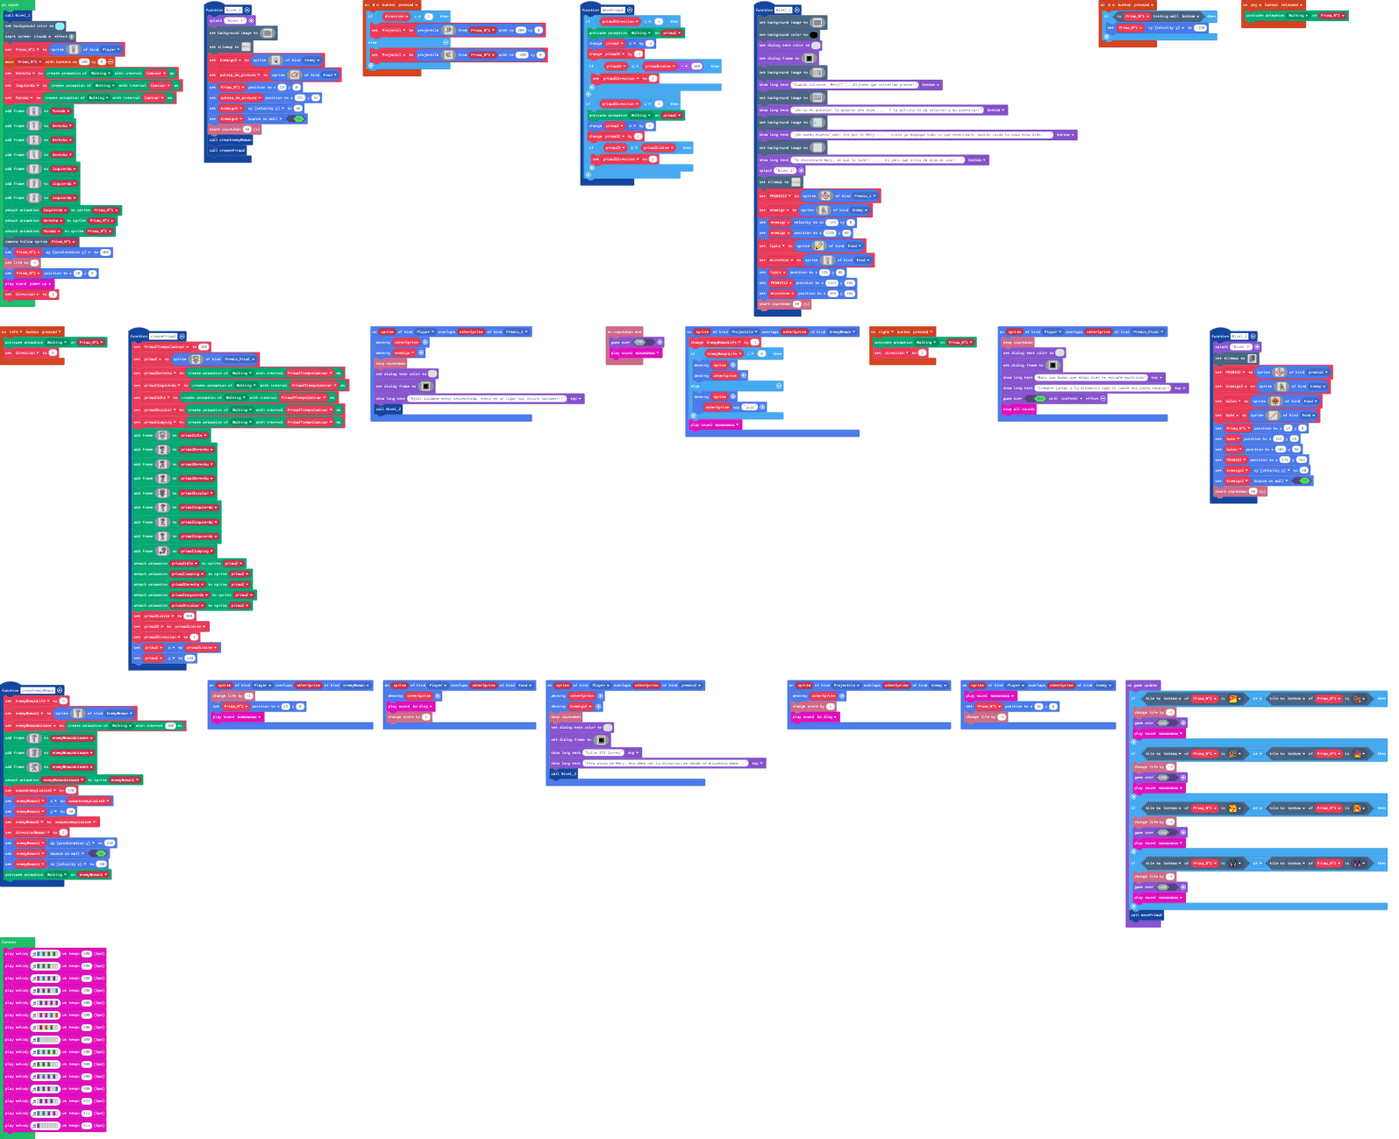
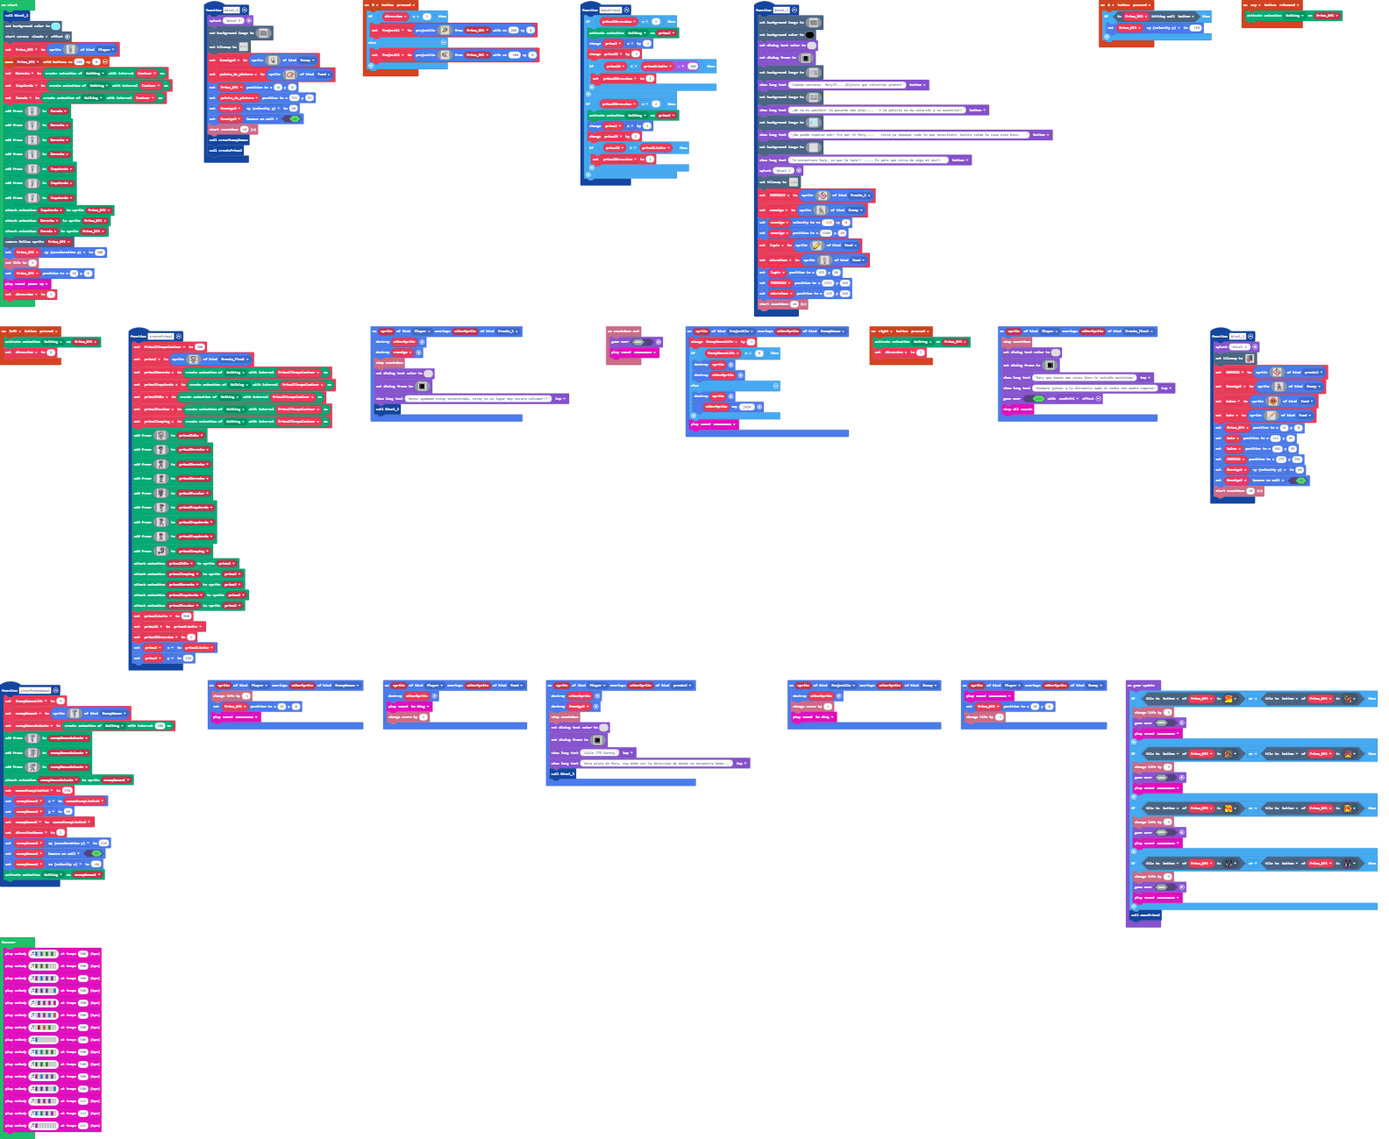
Diseño 7

diff --git a/main.ts b/main.ts
@@ -686,32 +686,32 @@ function Nivel_1 () {
         9 9 9 9 9 9 9 9 9 9 9 9 9 9 9 9 9 9 9 9 9 9 9 9 9 9 9 9 9 9 9 9 9 9 9 9 9 9 9 9 9 9 9 9 9 9 9 9 9 9 9 9 9 9 9 9 9 9 9 9 9 9 9 9 9 9 9 9 9 9 9 9 9 9 9 9 9 9 9 9 9 9 9 9 9 9 9 9 9 9 9 9 9 9 9 9 9 9 9 9 9 9 9 9 9 9 9 9 9 9 9 9 9 9 9 9 9 9 9 9 9 9 9 9 9 9 9 9 9 9 9 9 9 9 9 9 9 9 9 9 9 9 9 9 9 9 9 9 9 9 9 9 9 9 9 9 9 9 9 9 
         9 9 9 9 9 9 9 9 9 9 9 9 9 9 9 9 9 9 9 9 9 9 9 9 9 9 9 9 9 9 9 9 9 9 9 9 9 9 9 9 9 9 9 9 9 9 9 9 9 9 9 9 9 9 9 9 9 9 9 9 9 9 9 9 9 9 9 9 9 9 9 9 9 9 9 9 9 9 9 9 9 9 9 9 9 9 9 9 9 9 9 9 9 9 9 9 9 9 9 9 9 9 9 9 9 9 9 9 9 9 9 9 9 9 9 9 9 9 9 9 9 9 9 9 9 9 9 9 9 9 9 9 9 9 9 9 9 9 9 9 9 9 9 9 9 9 9 9 9 9 9 9 9 9 9 9 9 9 9 9 
         9 9 9 9 9 9 9 9 9 9 9 9 9 9 9 9 9 9 9 9 9 9 9 9 9 9 9 9 9 9 9 9 9 9 9 9 9 9 9 9 9 9 9 9 9 9 9 9 9 9 9 9 9 9 9 9 9 9 9 9 9 9 9 9 9 9 9 9 9 9 9 9 9 9 9 9 9 9 9 9 9 9 9 9 9 9 9 9 9 9 9 9 9 9 9 9 9 9 9 9 9 9 9 9 9 9 9 9 9 9 9 9 9 9 9 9 9 9 9 9 9 9 9 9 9 9 9 9 9 9 9 9 9 9 9 9 9 9 9 9 9 9 9 9 9 9 9 9 9 9 9 9 9 9 9 9 9 9 9 9 
-        9 9 9 9 9 9 9 9 9 9 9 9 9 9 9 9 9 9 9 9 9 9 9 9 9 9 9 9 9 9 9 9 9 9 9 9 9 9 9 9 9 9 9 9 9 9 9 9 9 9 9 9 9 9 9 9 9 9 9 9 9 9 9 9 9 9 9 9 9 9 9 9 9 9 9 9 9 9 9 9 9 9 9 9 9 9 9 9 9 9 9 9 9 9 9 9 9 9 9 9 9 9 9 9 9 9 9 9 9 9 9 9 9 9 9 9 9 9 9 9 9 9 9 9 9 9 9 9 9 9 9 9 9 9 9 9 9 9 9 9 9 9 9 9 9 9 9 9 9 9 9 9 9 9 9 9 9 9 9 9 
-        9 9 9 9 9 9 9 9 9 9 9 9 9 9 9 9 9 9 9 9 9 9 9 9 9 9 9 9 9 9 9 9 9 9 9 9 9 9 9 9 9 9 9 9 9 9 9 9 9 9 9 9 9 9 9 9 9 9 9 9 9 9 9 9 9 9 9 9 9 9 9 9 9 9 9 9 9 9 9 9 9 9 9 9 9 9 9 9 9 9 9 9 9 9 9 9 9 9 9 9 9 9 9 9 9 9 9 9 9 9 9 9 9 9 9 9 9 9 9 9 9 9 9 9 9 9 9 9 9 9 9 9 9 9 9 9 9 9 9 9 9 9 9 9 9 9 9 9 9 9 9 9 9 9 9 9 9 9 9 9 
-        9 9 9 9 9 9 9 9 9 9 9 9 9 9 9 9 9 9 9 9 9 9 9 9 9 9 9 9 9 9 9 9 9 9 9 9 9 9 9 9 9 9 9 9 9 9 9 9 9 9 9 9 9 9 9 9 9 9 9 9 9 9 9 9 9 9 9 9 9 9 9 9 9 9 9 9 9 9 9 9 9 9 9 9 9 9 9 9 9 9 9 9 9 9 9 9 9 9 9 9 9 9 9 9 9 9 9 9 9 9 9 9 9 9 9 9 9 9 9 9 9 9 9 9 9 9 9 9 9 9 9 9 9 9 9 9 9 9 9 9 9 9 9 9 9 9 9 9 9 9 9 9 9 9 9 9 9 9 9 9 
-        9 9 9 9 9 9 9 9 9 9 9 9 9 9 9 9 9 9 9 9 9 9 9 9 9 9 9 9 9 9 9 9 9 9 9 9 9 9 9 9 9 9 9 9 9 9 9 9 9 9 9 9 9 9 9 9 9 9 9 9 9 9 9 9 9 9 9 9 9 9 9 9 9 9 9 9 9 9 9 9 9 9 9 9 9 9 9 9 9 9 9 9 9 9 9 9 9 9 9 9 9 9 9 9 9 9 9 9 9 9 9 9 9 9 9 9 9 9 9 9 9 9 9 9 9 9 9 9 9 9 9 9 9 9 9 9 9 9 9 9 9 9 9 9 9 9 9 9 9 9 9 9 9 9 9 9 9 9 9 9 
-        9 9 9 9 9 9 9 9 9 9 9 9 9 9 9 9 9 9 9 9 9 9 9 9 9 9 9 9 9 9 9 9 9 9 9 9 9 9 9 9 9 9 9 9 9 9 9 9 9 9 9 9 9 9 9 9 9 9 9 9 9 9 9 9 9 9 9 9 9 9 9 9 9 9 9 9 9 9 9 9 9 9 9 9 9 9 9 9 9 9 9 9 9 9 9 9 9 9 9 9 9 9 9 9 9 9 9 9 9 9 9 9 9 9 9 9 9 9 9 9 9 9 9 9 9 9 9 9 9 9 9 9 9 9 9 9 9 9 9 9 9 9 9 9 9 9 9 9 9 9 9 9 9 9 9 9 9 9 9 9 
-        9 9 9 9 9 9 9 9 9 9 9 9 9 9 9 9 9 9 9 9 9 9 9 9 9 9 9 9 9 9 9 9 9 9 9 9 9 9 9 9 9 9 9 9 9 9 9 9 9 9 9 9 9 9 9 9 9 9 9 9 9 9 9 9 9 9 9 9 9 9 9 9 9 9 9 9 9 9 9 9 9 9 9 9 9 9 9 9 9 9 9 9 9 9 9 9 9 9 9 9 9 9 9 9 9 9 9 9 9 9 9 9 9 9 9 9 9 9 9 9 9 9 9 9 9 9 9 9 9 9 9 9 9 9 9 9 9 9 9 9 9 9 9 9 9 9 9 9 9 9 9 9 9 9 9 9 9 9 9 9 
-        9 9 9 9 9 9 9 9 9 9 9 9 9 9 9 9 9 9 9 9 9 9 9 9 9 9 9 9 9 9 9 9 9 9 9 9 9 9 9 9 9 9 9 9 9 9 9 9 9 9 9 9 9 9 9 9 9 9 9 9 9 9 9 9 9 9 9 9 9 9 9 9 9 9 9 9 9 9 9 9 9 9 9 9 9 9 9 9 9 9 9 9 9 9 9 9 9 9 9 9 9 9 9 9 9 9 9 9 9 9 9 9 9 9 9 9 9 9 9 9 9 9 9 9 9 9 9 9 9 9 9 9 9 9 9 9 9 9 9 9 9 9 9 9 9 9 9 9 9 9 9 9 9 9 9 9 9 9 9 9 
-        9 9 9 9 9 9 9 9 9 9 9 9 9 9 9 9 9 9 9 9 9 9 9 9 9 9 9 9 9 9 9 9 9 9 9 9 9 9 9 9 9 9 9 9 9 9 9 9 9 9 9 9 9 9 9 9 9 9 9 9 9 9 9 9 9 9 9 9 9 9 9 9 9 9 9 9 9 9 9 9 9 9 9 9 9 9 9 9 9 9 9 9 9 9 9 9 9 9 9 9 9 9 9 9 9 9 9 9 9 9 9 9 9 9 9 9 9 9 9 9 9 9 9 9 9 9 9 9 9 9 9 9 9 9 9 9 9 9 9 9 9 9 9 9 9 9 9 9 9 9 9 9 9 9 9 9 9 9 9 9 
-        9 9 9 9 9 9 9 9 9 9 9 9 9 9 9 9 9 9 9 9 9 9 9 9 9 9 9 9 9 9 9 9 9 9 9 9 9 9 9 9 9 9 9 9 9 9 9 9 9 9 9 9 9 9 9 9 9 9 9 9 9 9 9 9 9 9 9 9 9 9 9 9 9 9 9 9 9 9 9 9 9 9 9 9 9 9 9 9 9 9 9 9 9 9 9 9 9 9 9 9 9 9 9 9 9 9 9 9 9 9 9 9 9 9 9 9 9 9 9 9 9 9 9 9 9 9 9 9 9 9 9 9 9 9 9 9 9 9 9 9 9 9 9 9 9 9 9 9 9 9 9 9 9 9 9 9 9 9 9 9 
-        9 9 9 9 9 9 9 9 9 9 9 9 9 9 9 9 9 9 9 9 9 9 9 9 9 9 9 9 9 9 9 9 9 9 9 9 9 9 9 9 9 9 9 9 9 9 9 9 9 9 9 9 9 9 9 9 9 9 9 9 9 9 9 9 9 9 9 9 9 9 9 9 9 9 9 9 9 9 9 9 9 9 9 9 9 9 9 9 9 9 9 9 9 9 9 9 9 9 9 9 9 9 9 9 9 9 9 9 9 9 9 9 9 9 9 9 9 9 9 9 9 9 9 9 9 9 9 9 9 9 9 9 9 9 9 9 9 9 9 9 9 9 9 9 9 9 9 9 9 9 9 9 9 9 9 9 9 9 9 9 
-        9 9 9 9 9 9 9 9 9 9 9 9 9 9 9 9 9 9 9 9 9 9 9 9 9 9 9 9 9 9 9 9 9 9 9 9 9 9 9 9 9 9 9 9 9 9 9 9 9 9 9 9 9 9 9 9 9 9 9 9 9 9 9 9 9 9 9 9 9 9 9 9 9 9 9 9 9 9 9 9 9 9 9 9 9 9 9 9 9 9 9 9 9 9 9 9 9 9 9 9 9 9 9 9 9 9 9 9 9 9 9 9 9 9 9 9 9 9 9 9 9 9 9 9 9 9 9 9 9 9 9 9 9 9 9 9 9 9 9 9 9 9 9 9 9 9 9 9 9 9 9 9 9 9 9 9 9 9 9 9 
-        9 9 9 9 9 9 9 9 9 9 9 9 9 9 9 9 9 9 9 9 9 9 9 9 9 9 9 9 9 9 9 9 9 9 9 9 9 9 9 9 9 9 9 9 9 9 9 9 9 9 9 9 9 9 9 9 9 9 9 9 9 9 9 9 9 9 9 9 9 9 9 9 9 9 9 9 9 9 9 9 9 9 9 9 9 9 9 9 9 9 9 9 9 9 9 9 9 9 9 9 9 9 9 9 9 9 9 9 9 9 9 9 9 9 9 9 9 9 9 9 9 9 9 9 9 9 9 9 9 9 9 9 9 9 9 9 9 9 9 9 9 9 9 9 9 9 9 9 9 9 9 9 9 9 9 9 9 9 9 9 
-        9 9 9 9 9 9 9 9 9 9 9 9 9 9 9 9 9 9 9 9 9 9 9 9 9 9 9 9 9 9 9 9 9 9 9 9 9 9 9 9 9 9 9 9 9 9 9 9 9 9 9 9 9 9 9 9 9 9 9 9 9 9 9 9 9 9 9 9 9 9 9 9 9 9 9 9 9 9 9 9 9 9 9 9 9 9 9 9 9 9 9 9 9 9 9 9 9 9 9 9 9 9 9 9 9 9 9 9 9 9 9 9 9 9 9 9 9 9 9 9 9 9 9 9 9 9 9 9 9 9 9 9 9 9 9 9 9 9 9 9 9 9 9 9 9 9 9 9 9 9 9 9 9 9 9 9 9 9 9 9 
-        9 9 9 9 9 9 9 9 9 9 9 9 9 9 9 9 9 9 9 9 9 9 9 9 9 9 9 9 9 9 9 9 9 9 9 9 9 9 9 9 9 9 9 9 9 9 9 9 9 9 9 9 9 9 9 9 9 9 9 9 9 9 9 9 9 9 9 9 9 9 9 9 9 9 9 9 9 9 9 9 9 9 9 9 9 9 9 9 9 9 9 9 9 9 9 9 9 9 9 9 9 9 9 9 9 9 9 9 9 9 9 9 9 9 9 9 9 9 9 9 9 9 9 9 9 9 9 9 9 9 9 9 9 9 9 9 9 9 9 9 9 9 9 9 9 9 9 9 9 9 9 9 9 9 9 9 9 9 9 9 
-        9 9 9 9 9 9 9 9 9 9 9 9 9 9 9 9 9 f 9 9 9 9 9 9 9 9 9 9 9 9 9 9 9 9 9 9 9 9 9 9 9 9 9 9 9 9 9 9 9 9 9 9 9 9 9 9 9 9 9 9 9 9 9 9 9 9 9 9 9 9 9 9 9 9 9 9 9 9 9 9 9 9 9 9 9 9 9 9 9 9 9 9 9 9 9 9 9 9 9 9 9 9 9 9 9 9 9 9 9 9 9 9 9 9 9 9 9 9 9 9 9 9 9 9 9 9 9 9 9 9 9 9 9 9 9 9 9 9 9 9 9 9 9 9 9 9 9 9 9 9 9 9 9 9 9 9 9 9 9 9 
-        9 9 9 9 9 9 9 9 9 9 9 9 9 9 9 9 9 f 9 9 9 9 9 9 9 9 9 9 9 9 9 9 9 9 9 9 9 9 9 9 9 9 9 9 9 9 9 9 9 9 9 9 9 9 9 9 9 9 9 9 9 9 9 9 9 9 9 9 9 9 9 9 9 9 9 9 9 9 9 9 9 9 9 9 9 9 9 9 9 9 9 9 9 9 9 9 9 9 9 9 9 9 9 9 9 9 9 9 9 9 9 9 9 9 9 9 9 9 9 9 9 9 9 9 9 9 9 9 9 9 9 9 9 9 9 9 9 9 9 9 9 9 9 9 9 9 9 9 9 9 9 9 9 9 9 9 9 9 9 9 
-        9 9 9 9 9 9 9 9 9 9 9 9 9 9 9 9 9 f 9 9 9 9 9 9 9 9 9 9 9 9 9 9 9 9 9 9 9 9 9 9 9 9 9 9 9 9 9 9 9 9 9 9 9 9 9 9 9 9 9 9 9 9 9 9 9 9 9 9 9 9 9 9 9 9 9 9 9 9 9 9 9 9 9 9 9 9 9 9 9 9 9 9 9 9 9 9 9 9 9 9 9 9 9 9 9 9 9 9 9 9 9 9 9 9 9 9 9 9 9 9 9 9 9 9 9 9 9 9 9 9 9 9 9 9 9 9 9 9 9 9 9 9 9 9 9 9 9 9 9 9 9 9 9 9 9 9 9 9 9 9 
-        9 9 9 9 9 9 9 9 9 9 9 9 9 9 9 9 9 f 9 9 9 9 9 9 9 9 9 9 9 9 9 9 9 9 9 9 9 9 9 9 9 9 9 9 9 9 9 9 9 9 9 9 9 9 9 9 9 9 9 9 9 9 9 9 9 9 9 9 9 9 9 9 9 9 9 9 9 9 9 9 9 9 9 9 9 9 9 9 9 9 9 9 9 9 9 9 9 9 9 9 9 9 9 9 9 9 9 9 9 9 9 9 9 9 9 9 9 9 9 9 9 9 9 9 9 9 9 9 9 9 9 9 9 9 9 9 9 9 9 9 9 9 9 9 9 9 9 9 9 9 9 9 9 9 9 9 9 9 9 9 
-        9 9 9 9 9 9 9 9 9 9 9 9 9 9 9 9 9 f 9 9 9 9 9 9 9 9 9 9 9 9 9 9 9 9 9 9 9 9 9 9 9 9 9 9 9 9 9 9 9 9 9 9 9 9 9 9 9 9 9 9 9 9 9 9 9 9 9 9 9 9 9 9 9 9 9 9 9 9 9 9 9 9 9 9 9 9 9 9 9 9 9 9 9 9 9 9 9 9 9 9 9 9 9 9 9 9 9 9 9 9 9 9 9 9 9 9 9 9 9 9 9 9 9 9 9 9 9 9 9 9 9 9 9 9 9 9 9 9 9 9 9 9 9 9 9 9 9 9 9 9 9 9 9 9 9 9 9 9 9 9 
-        9 9 9 9 9 9 9 9 9 9 9 9 9 9 9 9 9 f 9 9 9 9 9 9 9 9 9 9 9 9 9 9 9 9 9 9 9 9 9 9 9 9 9 9 9 9 9 9 9 9 9 9 9 9 9 9 9 9 9 9 9 9 9 9 9 9 9 9 9 9 9 9 9 9 9 9 9 9 9 9 9 9 9 9 9 9 9 9 9 9 9 9 9 9 9 9 9 9 9 9 9 9 9 9 9 9 9 9 9 9 9 9 9 9 9 9 9 9 9 9 9 9 9 9 9 9 9 9 9 9 9 9 9 9 9 9 9 9 9 9 9 9 9 9 9 9 9 9 9 9 9 9 9 9 9 9 9 9 9 9 
-        9 9 9 9 9 9 9 9 9 9 9 9 9 9 9 9 9 f f 9 9 9 9 9 9 9 9 9 9 9 9 9 9 9 9 9 9 9 9 9 9 9 9 9 9 9 9 9 9 9 9 9 9 9 9 9 9 9 9 9 9 9 9 9 9 9 9 9 9 9 9 9 9 9 9 9 9 9 9 9 9 9 9 9 9 9 9 9 9 9 9 9 9 9 9 9 9 9 9 9 9 9 9 9 9 9 9 9 9 9 9 9 9 9 9 9 9 9 9 9 9 9 9 9 9 9 9 9 9 9 9 9 9 9 9 9 9 9 9 9 9 9 9 9 9 9 9 9 9 9 9 9 9 9 9 9 9 9 9 9 
-        9 9 9 9 9 9 9 9 9 9 9 9 9 9 9 9 9 f 9 f 9 9 9 9 9 9 9 9 9 9 9 9 9 9 9 9 9 9 9 9 9 9 9 9 9 9 9 9 9 9 9 9 9 9 9 9 9 9 9 9 9 9 9 9 9 9 9 9 9 9 9 9 9 9 9 9 9 9 9 9 9 9 9 9 9 9 9 9 9 9 9 9 9 9 9 9 9 9 9 9 9 9 9 9 9 9 9 9 9 9 9 9 9 9 9 9 9 9 9 9 9 9 9 9 9 9 9 9 9 9 9 9 9 9 9 9 9 9 9 9 9 9 9 9 9 9 9 9 9 9 9 9 9 9 9 9 9 9 9 9 
-        9 9 9 9 9 9 9 9 9 9 9 9 9 9 9 9 9 f 9 f 9 9 9 9 9 9 9 9 9 9 9 9 9 9 9 9 9 9 9 9 9 9 9 9 9 9 9 9 9 9 9 9 9 9 9 9 9 9 9 9 9 9 9 9 9 9 9 9 9 9 9 9 9 9 9 9 9 9 9 9 9 9 9 9 9 9 9 9 9 9 9 9 9 9 9 9 9 9 9 9 9 9 9 9 9 9 9 9 9 9 9 9 9 9 9 9 9 9 9 9 9 9 9 9 9 9 9 9 9 9 9 9 9 9 9 9 9 9 9 9 9 9 9 9 9 9 9 9 9 9 9 9 9 9 9 9 9 9 9 9 
-        9 9 9 9 9 9 9 9 9 9 9 9 9 9 9 9 9 f 9 9 f 9 9 9 9 9 9 9 9 9 9 9 9 9 9 9 9 9 9 9 9 9 9 9 9 9 9 9 9 9 9 9 9 9 9 9 9 9 9 9 9 9 9 9 9 9 9 9 9 9 9 9 9 9 9 9 9 9 9 9 9 9 9 9 9 9 9 9 9 9 9 9 9 9 9 9 9 9 9 9 9 9 9 9 9 9 9 9 9 9 9 9 9 9 9 9 9 9 9 9 9 9 9 9 9 9 9 9 9 9 9 9 9 9 9 9 9 9 9 9 9 9 9 9 9 9 9 9 9 9 9 9 9 9 9 9 9 9 9 9 
-        9 9 9 9 9 9 9 9 9 9 9 9 9 9 9 9 9 f 9 9 9 f 9 9 9 9 9 9 9 9 9 9 9 9 9 9 9 9 9 9 9 9 9 9 9 9 9 9 9 9 9 9 9 9 9 9 9 9 9 9 9 9 9 9 9 9 9 9 9 9 9 9 9 9 9 9 9 9 9 9 9 9 9 9 9 9 9 9 9 9 9 9 9 9 9 9 9 9 9 9 9 9 9 9 9 9 9 9 9 9 9 9 9 9 9 9 9 9 9 9 9 9 9 9 9 9 9 9 9 9 9 9 9 9 9 9 9 9 9 9 9 9 9 9 9 9 9 9 9 9 9 9 9 9 9 9 9 9 9 9 
-        9 9 9 9 9 9 9 9 9 9 9 9 9 9 9 9 9 f 9 9 9 9 f 9 9 9 9 9 9 9 9 9 9 9 9 9 9 9 9 9 9 9 9 9 9 9 9 9 9 9 9 9 9 9 9 9 9 9 9 9 9 9 9 9 9 9 9 9 9 9 9 9 9 9 9 9 9 9 9 9 9 9 9 9 9 9 9 9 9 9 9 9 9 9 9 9 9 9 9 9 9 9 9 9 9 9 9 9 9 9 9 9 9 9 9 9 9 9 9 9 9 9 9 9 9 9 9 9 9 9 9 9 9 9 9 9 9 9 9 9 9 9 9 9 9 9 9 9 9 9 9 9 9 9 9 9 9 9 9 9 
+        9 9 9 9 9 9 9 9 9 9 9 9 9 9 9 9 9 9 9 9 9 f f f f f f f 9 9 9 9 9 9 9 9 9 9 9 9 9 9 9 9 9 9 9 9 9 9 9 9 9 9 9 9 9 9 9 9 9 9 9 9 9 9 9 9 9 9 9 9 9 9 9 9 9 9 9 9 9 9 9 9 9 9 9 9 9 9 9 9 9 9 9 9 9 9 9 9 9 9 9 9 9 9 9 9 9 9 9 9 9 9 9 9 9 9 9 9 9 9 9 9 9 9 9 9 9 9 9 9 9 9 9 9 9 9 9 9 9 9 9 9 9 9 9 9 9 9 9 9 9 9 9 9 9 9 9 9 
+        9 9 9 9 9 9 9 9 9 9 9 9 9 9 9 9 9 9 9 9 f 9 9 9 9 9 9 9 f 9 9 9 9 9 9 9 9 9 9 9 9 9 9 9 9 9 9 9 9 9 9 9 9 9 9 9 9 9 9 9 9 9 9 9 9 9 9 9 9 9 9 9 9 9 9 9 9 9 9 9 9 9 9 9 9 9 9 9 9 9 9 9 9 9 9 9 9 9 9 9 9 9 9 9 9 9 9 9 9 9 9 9 9 9 9 9 9 9 9 9 9 9 9 9 9 9 9 9 9 9 9 9 9 9 9 9 9 9 9 9 9 9 9 9 9 9 9 9 9 9 9 9 9 9 9 9 9 9 9 9 
+        9 9 9 9 9 9 9 9 9 9 9 9 9 9 9 9 9 9 9 f 9 9 9 9 9 9 9 9 9 f f f f f 9 9 9 9 9 9 9 9 9 9 9 9 9 9 9 9 9 9 9 9 9 9 9 9 9 9 9 9 9 9 9 9 9 9 9 9 9 9 9 9 9 9 9 9 9 9 9 9 9 9 9 9 9 9 9 9 9 9 9 9 9 9 9 9 9 9 9 9 9 9 9 9 9 9 9 9 9 9 9 9 9 9 9 9 9 9 9 9 9 9 9 9 9 9 9 9 9 9 9 9 9 9 9 9 9 9 9 9 9 9 9 9 9 9 9 9 9 9 9 9 9 9 9 9 9 9 
+        9 9 9 9 9 9 9 9 9 9 9 9 9 9 9 9 9 9 9 f 9 9 9 9 9 9 9 9 9 9 f 9 9 9 f f 9 9 9 9 9 9 9 9 9 9 9 9 9 9 9 9 9 9 9 9 9 9 9 9 9 9 9 9 9 9 9 9 9 9 9 9 9 9 9 9 9 9 9 9 9 9 9 9 9 9 9 9 9 9 9 9 9 9 9 9 9 9 9 9 9 9 9 9 9 9 9 9 9 9 9 9 9 9 9 9 9 9 9 9 9 9 9 9 9 9 9 9 9 9 9 9 9 9 9 9 9 9 9 9 9 9 9 9 9 9 9 9 9 9 9 9 9 9 9 9 9 9 9 9 
+        9 9 9 9 9 9 9 9 9 9 9 9 9 9 9 9 9 9 f 9 9 9 9 9 9 9 9 9 9 9 9 f 9 9 9 9 f 9 9 9 9 9 9 9 9 9 9 9 9 9 9 9 9 9 9 9 9 9 9 9 9 9 9 9 9 9 9 9 9 9 9 9 9 9 9 9 9 9 9 9 9 9 9 9 9 9 9 9 9 9 9 9 9 9 9 9 9 9 9 9 9 9 9 9 9 9 9 9 9 9 9 9 9 9 9 9 9 9 9 9 9 9 9 9 9 9 9 9 9 9 9 9 9 9 9 9 9 9 9 9 9 9 9 9 9 9 9 9 9 9 9 9 9 9 9 9 9 9 9 9 
+        9 9 9 9 9 9 9 9 9 9 9 9 9 9 9 9 9 9 f 9 9 9 9 9 9 9 9 9 9 9 9 f 9 9 9 9 9 f 9 9 9 9 9 9 9 9 9 9 9 9 9 9 9 9 9 9 9 9 9 9 9 9 9 9 9 9 9 9 9 9 9 9 9 9 9 9 9 9 9 9 9 9 9 9 9 9 9 9 9 9 9 9 9 9 9 9 9 9 9 9 9 9 9 9 9 9 9 9 9 9 9 9 9 9 9 9 9 9 9 9 9 9 9 9 9 9 9 9 9 9 9 9 9 9 9 9 9 9 9 9 9 9 9 9 9 9 9 9 9 9 9 9 9 9 9 9 9 9 9 9 
+        9 9 9 9 9 9 9 9 9 9 9 9 9 9 9 9 9 9 f 9 9 9 9 9 9 9 9 9 9 9 9 f 9 9 9 9 9 9 f 9 9 9 9 9 9 9 9 9 9 9 9 9 9 9 9 9 9 9 9 9 9 9 9 9 9 9 9 9 9 9 9 9 9 9 9 9 9 9 9 9 9 9 9 9 9 9 9 9 9 9 9 9 9 9 9 9 9 9 9 9 9 9 9 9 9 9 9 9 9 9 9 9 9 9 9 9 9 9 9 9 9 9 9 9 9 9 9 9 9 9 9 9 9 9 9 9 9 9 9 9 9 9 9 9 9 9 9 9 9 9 9 9 9 9 9 9 9 9 9 9 
+        9 9 9 9 9 9 9 9 9 9 9 9 9 9 9 9 9 f 9 9 9 9 9 9 9 9 9 9 9 9 9 9 f 9 9 9 9 9 f f 9 9 9 9 9 9 9 9 9 9 9 9 9 9 9 9 9 9 9 9 9 9 9 9 9 9 9 9 9 9 9 9 9 9 9 9 9 9 9 9 9 9 9 9 9 9 9 9 9 9 9 9 9 9 9 9 9 9 9 9 9 9 9 9 9 9 9 9 9 9 9 9 9 9 9 9 9 9 9 9 9 9 9 9 9 9 9 9 9 9 9 9 9 9 9 9 9 9 9 9 9 9 9 9 9 9 9 9 9 9 9 9 9 9 9 9 9 9 9 9 
+        9 9 9 9 9 9 9 9 9 9 9 9 9 9 9 9 9 f 9 9 9 9 9 9 9 9 9 9 9 9 9 9 f 9 9 9 9 9 9 f 9 9 9 9 9 9 9 9 9 9 9 9 9 9 9 9 9 9 9 9 9 9 9 9 9 9 9 9 9 9 9 9 9 9 9 9 9 9 9 9 9 9 9 9 9 9 9 9 9 9 9 9 9 9 9 9 9 9 9 9 9 9 9 9 9 9 9 9 9 9 9 9 9 9 9 9 9 9 9 9 9 9 9 9 9 9 9 9 9 9 9 9 9 9 9 9 9 9 9 9 9 9 9 9 9 9 9 9 9 9 9 9 9 9 9 9 9 9 9 9 
+        9 9 9 9 9 9 9 9 9 9 9 9 9 9 9 9 9 f 9 9 9 9 9 9 9 9 9 9 9 9 9 9 f 9 9 9 9 9 9 9 f 9 9 9 9 9 9 9 9 9 9 9 9 9 9 9 9 9 9 9 9 9 9 9 9 9 9 9 9 9 9 9 9 9 9 9 9 9 9 9 9 9 9 9 9 9 9 9 9 9 9 9 9 9 9 9 9 9 9 9 9 9 9 9 9 9 9 9 9 9 9 9 9 9 9 9 9 9 9 9 9 9 9 9 9 9 9 9 9 9 9 9 9 9 9 9 9 9 9 9 9 9 9 9 9 9 9 9 9 9 9 9 9 9 9 9 9 9 9 9 
+        9 9 9 9 9 9 9 9 9 9 9 9 9 9 9 9 9 f 9 9 9 9 9 9 9 9 9 9 9 9 9 9 f 9 9 9 9 9 9 9 f 9 9 9 9 9 9 9 9 9 9 9 9 9 9 9 9 9 9 9 9 9 9 9 9 9 9 9 9 9 9 9 9 9 9 9 9 9 9 9 9 9 9 9 9 9 9 9 9 9 9 9 9 9 9 9 9 9 9 9 9 9 9 9 9 9 9 9 9 9 9 9 9 9 9 9 9 9 9 9 9 9 9 9 9 9 9 9 9 9 9 9 9 9 9 9 9 9 9 9 9 9 9 9 9 9 9 9 9 9 9 9 9 9 9 9 9 9 9 9 
+        9 9 9 9 9 9 9 9 9 9 9 9 9 9 9 9 9 f 9 9 9 9 9 9 9 9 9 9 9 9 9 9 f 9 9 9 9 9 9 9 9 f 9 9 9 9 9 9 9 9 9 9 9 9 9 9 9 9 9 9 9 9 9 9 9 9 9 9 9 9 9 9 9 9 9 9 9 9 9 9 9 9 9 9 9 9 9 9 9 9 9 9 9 9 9 9 9 9 9 9 9 9 9 9 9 9 9 9 9 9 9 9 9 9 9 9 9 9 9 9 9 9 9 9 9 9 9 9 9 9 9 9 9 9 9 9 9 9 9 9 9 9 9 9 9 9 9 9 9 9 9 9 9 9 9 9 9 9 9 9 
+        9 9 9 9 9 9 9 9 9 9 9 9 9 9 9 9 9 f 9 9 9 9 9 9 9 9 9 9 9 9 9 f f 9 9 9 9 9 9 9 9 9 f 9 9 9 9 9 9 9 9 9 9 9 9 9 9 9 9 9 9 9 9 9 9 9 9 9 9 9 9 9 9 9 9 9 9 9 9 9 9 9 9 9 9 9 9 9 9 9 9 9 9 9 9 9 9 9 9 9 9 9 9 9 9 9 9 9 9 9 9 9 9 9 9 9 9 9 9 9 9 9 9 9 9 9 9 9 9 9 9 9 9 9 9 9 9 9 9 9 9 9 9 9 9 9 9 9 9 9 9 9 9 9 9 9 9 9 9 9 
+        9 9 9 9 9 9 9 9 9 9 9 9 9 9 9 9 9 f 9 9 9 9 9 9 9 9 9 9 9 9 f f 9 9 9 9 9 9 9 f 9 9 f 9 9 9 9 9 9 9 9 9 9 9 9 9 9 9 9 9 9 9 9 9 9 9 9 9 9 9 9 9 9 9 9 9 9 9 9 9 9 9 9 9 9 9 9 9 9 9 9 9 9 9 9 9 9 9 9 9 9 9 9 9 9 9 9 9 9 9 9 9 9 9 9 9 9 9 9 9 9 9 9 9 9 9 9 9 9 9 9 9 9 9 9 9 9 9 9 9 9 9 9 9 9 9 9 9 9 9 9 9 9 9 9 9 9 9 9 9 
+        9 9 9 9 9 9 9 9 9 9 9 9 9 9 9 9 9 f f 9 9 9 9 9 9 9 9 9 9 9 f 9 9 9 9 9 9 9 9 9 f 9 9 f 9 9 9 9 9 9 9 9 9 9 9 9 9 9 9 9 9 9 9 9 9 9 9 9 9 9 9 9 9 9 9 9 9 9 9 9 9 9 9 9 9 9 9 9 9 9 9 9 9 9 9 9 9 9 9 9 9 9 9 9 9 9 9 9 9 9 9 9 9 9 9 9 9 9 9 9 9 9 9 9 9 9 9 9 9 9 9 9 9 9 9 9 9 9 9 9 9 9 9 9 9 9 9 9 9 9 9 9 9 9 9 9 9 9 9 9 
+        9 9 9 9 9 9 9 9 9 9 9 9 9 9 9 9 9 f 9 f 9 9 9 9 9 9 9 9 f f 9 9 9 9 9 9 9 9 9 9 f 9 9 f 9 9 9 9 9 9 9 9 9 9 9 9 9 9 9 9 9 9 9 9 9 9 9 9 9 9 9 9 9 9 9 9 9 9 9 9 9 9 9 9 9 9 9 9 9 9 9 9 9 9 9 9 9 9 9 9 9 9 9 9 9 9 9 9 9 9 9 9 9 9 9 9 9 9 9 9 9 9 9 9 9 9 9 9 9 9 9 9 9 9 9 9 9 9 9 9 9 9 9 9 9 9 9 9 9 9 9 9 9 9 9 9 9 9 9 9 
+        9 9 9 9 9 9 9 9 9 9 9 9 9 9 9 9 9 f 9 9 f f f f f f f f f 9 9 9 9 9 9 9 9 9 9 9 f 9 9 f 9 9 9 9 9 9 9 9 9 9 9 9 9 9 9 9 9 9 9 9 9 9 9 9 9 9 9 9 9 9 9 9 9 9 9 9 9 9 9 9 9 9 9 9 9 9 9 9 9 9 9 9 9 9 9 9 9 9 9 9 9 9 9 9 9 9 9 9 9 9 9 9 9 9 9 9 9 9 9 9 9 9 9 9 9 9 9 9 9 9 9 9 9 9 9 9 9 9 9 9 9 9 9 9 9 9 9 9 9 9 9 9 9 9 9 9 
+        9 9 9 9 9 9 9 9 9 9 9 9 9 9 9 9 9 f 9 9 9 9 9 9 9 9 9 9 9 9 9 9 9 9 9 9 9 9 9 f 9 9 f 9 9 9 9 9 9 9 9 9 9 9 9 9 9 9 9 9 9 9 9 9 9 9 9 9 9 9 9 9 9 9 9 9 9 9 9 9 9 9 9 9 9 9 9 9 9 9 9 9 9 9 9 9 9 9 9 9 9 9 9 9 9 9 9 9 9 9 9 9 9 9 9 9 9 9 9 9 9 9 9 9 9 9 9 9 9 9 9 9 9 9 9 9 9 9 9 9 9 9 9 9 9 9 9 9 9 9 9 9 9 9 9 9 9 9 9 9 
+        9 9 9 9 9 9 9 9 9 9 9 9 9 9 9 9 9 f 9 9 9 9 9 9 9 9 9 9 9 9 9 9 9 9 9 9 9 9 9 f 9 9 f 9 9 9 9 9 9 9 9 9 9 9 9 9 9 9 9 9 9 9 9 9 9 9 9 9 9 9 9 9 9 9 9 9 9 9 9 9 9 9 9 9 9 9 9 9 9 9 9 9 9 9 9 9 9 9 9 9 9 9 9 9 9 9 9 9 9 9 9 9 9 9 9 9 9 9 9 9 9 9 9 9 9 9 9 9 9 9 9 9 9 9 9 9 9 9 9 9 9 9 9 9 9 9 9 9 9 9 9 9 9 9 9 9 9 9 9 9 
+        9 9 9 9 9 9 9 9 9 9 9 9 9 9 9 9 9 f 9 9 9 9 9 9 9 9 9 9 9 9 9 9 9 9 9 9 9 9 9 f f 9 f 9 9 9 9 9 9 9 9 9 9 9 9 9 9 9 9 9 9 9 9 9 9 9 9 9 9 9 9 9 9 9 9 9 9 9 9 9 9 9 9 9 9 9 9 9 9 9 9 9 9 9 9 9 9 9 9 9 9 9 9 9 9 9 9 9 9 9 9 9 9 9 9 9 9 9 9 9 9 9 9 9 9 9 9 9 9 9 9 9 9 9 9 9 9 9 9 9 9 9 9 9 9 9 9 9 9 9 9 9 9 9 9 9 9 9 9 9 
+        9 9 9 9 9 9 9 9 9 9 9 9 9 9 9 9 9 f f 9 9 9 9 9 9 9 9 9 9 9 9 9 9 9 9 9 9 9 f 9 9 f 9 9 9 9 9 9 9 9 9 9 9 9 9 9 9 9 9 9 9 9 9 9 9 9 9 9 9 9 9 9 9 9 9 9 9 9 9 9 9 9 9 9 9 9 9 9 9 9 9 9 9 9 9 9 9 9 9 9 9 9 9 9 9 9 9 9 9 9 9 9 9 9 9 9 9 9 9 9 9 9 9 9 9 9 9 9 9 9 9 9 9 9 9 9 9 9 9 9 9 9 9 9 9 9 9 9 9 9 9 9 9 9 9 9 9 9 9 9 
+        9 9 9 9 9 9 9 9 9 9 9 9 9 9 9 9 9 f 9 f 9 9 9 9 9 9 9 9 9 9 9 9 9 9 9 9 9 f 9 9 9 9 9 9 9 9 9 9 9 9 9 9 9 9 9 9 9 9 9 9 9 9 9 9 9 9 9 9 9 9 9 9 9 9 9 9 9 9 9 9 9 9 9 9 9 9 9 9 9 9 9 9 9 9 9 9 9 9 9 9 9 9 9 9 9 9 9 9 9 9 9 9 9 9 9 9 9 9 9 9 9 9 9 9 9 9 9 9 9 9 9 9 9 9 9 9 9 9 9 9 9 9 9 9 9 9 9 9 9 9 9 9 9 9 9 9 9 9 9 9 
+        9 9 9 9 9 9 9 9 9 9 9 9 9 9 9 9 9 f 9 f 9 9 9 9 9 9 9 9 9 9 9 9 9 9 9 9 9 f 9 9 9 9 9 9 9 9 9 9 9 9 9 9 9 9 9 9 9 9 9 9 9 9 9 9 9 9 9 9 9 9 9 9 9 9 9 9 9 9 9 9 9 9 9 9 9 9 9 9 9 9 9 9 9 9 9 9 9 9 9 9 9 9 9 9 9 9 9 9 9 9 9 9 9 9 9 9 9 9 9 9 9 9 9 9 9 9 9 9 9 9 9 9 9 9 9 9 9 9 9 9 9 9 9 9 9 9 9 9 9 9 9 9 9 9 9 9 9 9 9 9 
+        9 9 9 9 9 9 9 9 9 9 9 9 9 9 9 9 9 f 9 9 f 9 9 9 9 9 9 9 9 9 9 9 9 9 9 9 f 9 9 9 9 9 9 9 9 9 9 9 9 9 9 9 9 9 9 9 9 9 9 9 9 9 9 9 9 9 9 9 9 9 9 9 9 9 9 9 9 9 9 9 9 9 9 9 9 9 9 9 9 9 9 9 9 9 9 9 9 9 9 9 9 9 9 9 9 9 9 9 9 9 9 9 9 9 9 9 9 9 9 9 9 9 9 9 9 9 9 9 9 9 9 9 9 9 9 9 9 9 9 9 9 9 9 9 9 9 9 9 9 9 9 9 9 9 9 9 9 9 9 9 
+        9 9 9 9 9 9 9 9 9 9 9 9 9 9 9 9 9 f 9 9 9 f 9 9 9 9 9 9 9 9 9 9 9 9 9 9 f 9 9 9 9 9 9 9 9 9 9 9 9 9 9 9 9 9 9 9 9 9 9 9 9 9 9 9 9 9 9 9 9 9 9 9 9 9 9 9 9 9 9 9 9 9 9 9 9 9 9 9 9 9 9 9 9 9 9 9 9 9 9 9 9 9 9 9 9 9 9 9 9 9 9 9 9 9 9 9 9 9 9 9 9 9 9 9 9 9 9 9 9 9 9 9 9 9 9 9 9 9 9 9 9 9 9 9 9 9 9 9 9 9 9 9 9 9 9 9 9 9 9 9 
+        9 9 9 9 9 9 9 9 9 9 9 9 9 9 9 9 9 f 9 9 9 9 f 9 9 9 9 9 9 9 9 9 9 9 9 9 f 9 9 9 9 9 9 9 9 9 9 9 9 9 9 9 9 9 9 9 9 9 9 9 9 9 9 9 9 9 9 9 9 9 9 9 9 9 9 9 9 9 9 9 9 9 9 9 9 9 9 9 9 9 9 9 9 9 9 9 9 9 9 9 9 9 9 9 9 9 9 9 9 9 9 9 9 9 9 9 9 9 9 9 9 9 9 9 9 9 9 9 9 9 9 9 9 9 9 9 9 9 9 9 9 9 9 9 9 9 9 9 9 9 9 9 9 9 9 9 9 9 9 9 
         9 9 9 9 9 9 9 9 9 9 9 9 9 9 9 9 9 f 9 9 9 9 9 f 9 9 9 9 9 9 9 9 9 9 9 f 9 9 9 9 9 9 9 9 9 9 9 9 9 9 9 9 9 9 9 9 9 9 9 9 9 9 9 9 9 9 9 9 9 9 9 9 9 9 9 9 9 9 9 9 9 9 9 9 9 9 9 9 9 9 9 9 9 9 9 9 9 9 9 9 9 9 9 9 9 9 9 9 9 9 9 9 9 9 9 9 9 9 9 9 9 9 9 9 9 9 9 9 9 9 9 9 9 9 9 9 9 9 9 9 9 9 9 9 9 9 9 9 9 9 9 9 9 9 9 9 9 9 9 9 
         9 9 9 9 9 9 9 9 9 9 9 9 9 9 9 9 9 f 9 9 9 9 f 9 f 9 9 9 9 9 9 9 9 9 f 9 9 9 9 9 9 9 9 9 9 9 9 9 9 9 9 9 9 9 9 9 9 9 9 9 9 9 9 9 9 9 9 9 9 9 9 9 9 9 9 9 9 9 9 9 9 9 9 9 9 9 9 9 9 9 9 9 9 9 9 9 9 9 9 9 9 9 9 9 9 9 9 9 9 9 9 9 9 9 9 9 9 9 9 9 9 9 9 9 9 9 9 9 9 9 9 9 9 9 9 9 9 9 9 9 9 9 9 9 9 9 9 9 9 9 9 9 9 9 9 9 9 9 9 9 
         9 9 9 9 9 9 9 9 9 9 9 9 9 9 9 9 9 f 9 9 9 9 f 9 9 f f f 9 9 9 9 f f 9 9 9 9 9 9 9 9 9 9 9 9 9 9 9 9 9 9 9 9 9 9 9 9 9 9 9 9 9 9 9 9 9 9 9 9 9 9 9 9 9 9 9 9 9 9 9 9 9 9 9 9 9 9 9 9 9 9 9 9 9 9 9 9 9 9 9 9 9 9 9 9 9 9 9 9 9 9 9 9 9 9 9 9 9 9 9 9 9 9 9 9 9 9 9 9 9 9 9 9 9 9 9 9 9 9 9 9 9 9 9 9 9 9 9 9 9 9 9 9 9 9 9 9 9 9 
@@ -721,11 +721,11 @@ function Nivel_1 () {
         9 9 9 9 9 9 9 9 9 9 9 9 9 9 9 9 9 f 9 9 9 f 9 9 9 f f f f f f 9 9 9 9 9 9 9 9 9 9 9 9 9 9 9 9 9 9 9 9 9 9 9 9 9 9 9 9 9 9 9 9 9 9 9 9 9 9 9 9 9 9 9 9 9 9 9 9 9 9 9 9 9 9 9 9 9 9 9 9 9 9 9 9 9 9 9 9 9 9 9 9 9 9 9 9 9 9 9 9 9 9 9 9 9 9 9 9 9 9 9 9 9 9 9 9 9 9 9 9 9 9 9 9 9 9 9 9 9 9 9 9 9 9 9 9 9 9 9 9 9 9 9 9 9 9 9 9 9 
         9 9 9 9 9 9 9 9 9 9 9 9 9 9 9 9 9 f 9 9 f 9 9 9 f f f f f f f f f f f f 9 9 9 9 9 9 9 9 9 9 9 9 9 9 9 9 9 9 9 9 9 9 9 9 9 9 9 9 9 9 9 9 9 9 9 9 9 9 9 9 9 9 9 9 9 9 9 9 9 9 9 9 9 9 9 9 9 9 9 9 9 9 9 9 9 9 9 9 9 9 9 9 9 9 9 9 9 9 9 9 9 9 9 9 9 9 9 9 9 9 9 9 9 9 9 9 9 9 9 9 9 9 9 9 9 9 9 9 9 9 9 9 9 9 9 9 9 9 9 9 9 9 9 9 
         9 9 9 9 9 9 9 9 9 9 9 9 9 9 9 9 9 f f f f f f e e f f f f f f f 9 9 9 9 9 9 9 9 9 9 9 9 9 9 9 9 9 9 9 9 9 9 9 9 9 9 9 9 9 9 9 9 9 9 9 9 9 9 9 9 9 9 9 9 9 9 9 9 9 9 9 9 9 9 9 9 9 9 9 9 9 9 9 9 9 9 9 9 9 9 9 9 9 9 9 9 9 9 9 9 9 9 9 9 9 9 9 9 9 9 9 9 9 9 9 9 9 9 9 9 9 9 9 9 9 9 9 9 9 9 9 9 9 9 9 9 9 9 9 9 9 9 9 9 9 9 9 9 
-        9 9 9 9 9 9 9 9 9 9 9 9 9 f 9 9 f f b b f f b e e e b b f f f f f f f f f 9 9 9 9 9 9 9 9 9 9 9 9 9 9 9 9 9 9 9 9 9 9 9 9 9 9 9 9 9 9 9 9 9 9 9 9 9 9 9 9 9 9 9 9 9 9 9 9 9 9 9 9 9 9 9 9 9 9 9 9 9 9 9 9 9 9 9 9 9 9 9 9 9 9 9 9 9 9 9 9 9 9 9 9 9 9 9 9 9 9 9 9 9 9 9 9 9 9 9 9 9 9 9 9 9 9 9 9 9 9 9 9 9 9 9 9 9 9 9 9 9 9 9 
-        9 9 9 9 9 9 9 9 9 9 9 9 f b f f b f f b f b b e e e b b b b b f f f b b b f f 9 9 9 9 9 9 9 9 9 9 9 9 9 9 9 9 9 9 9 9 9 9 9 9 9 9 9 9 9 9 9 9 9 9 9 9 9 9 9 9 9 9 9 9 9 9 9 9 9 9 9 9 9 9 9 9 9 9 9 9 9 9 9 9 9 9 9 9 9 9 9 9 9 9 9 9 9 9 9 9 9 9 9 9 9 9 9 9 9 9 9 9 9 9 9 9 9 9 9 9 9 9 9 9 9 9 9 9 9 9 9 9 9 9 9 9 9 9 9 9 9 
-        9 9 9 9 9 9 9 9 9 9 9 f b b b b b b f b f b b e e b b b b b f b b b f b b b f 9 9 9 9 9 9 9 9 9 9 9 9 9 9 9 9 9 9 9 9 9 9 9 9 9 9 9 9 9 9 9 9 9 9 9 9 9 9 9 9 9 9 9 9 9 9 9 9 9 9 9 9 9 9 9 9 9 9 9 9 9 9 9 9 9 9 9 9 9 9 9 9 9 9 9 9 9 9 9 9 9 9 9 9 9 9 9 9 9 9 9 9 9 9 9 9 9 9 9 9 9 9 9 9 9 9 9 9 9 9 9 9 9 9 9 9 9 9 9 9 9 
-        9 9 9 9 9 9 9 9 9 9 9 f b b b b b b f f f b b e e b b b f f b b b b f b b b f 9 9 9 9 9 9 9 9 9 9 9 9 9 9 9 9 9 9 9 9 9 9 9 9 9 9 9 9 9 9 9 9 9 9 9 9 9 9 9 9 9 9 9 9 9 9 9 9 9 9 9 9 9 9 9 9 9 9 9 9 9 9 9 9 9 9 9 9 9 9 9 9 9 9 9 9 9 9 9 9 9 9 9 9 9 9 9 9 9 9 9 9 9 9 9 9 9 9 9 9 9 9 9 9 9 9 9 9 9 9 9 9 9 9 9 9 9 9 9 9 9 
-        9 9 9 9 9 9 9 9 9 9 f b b b b b b b f f b e e e b b b f b b b b b b f b f b f f 9 9 9 9 9 9 9 f 9 9 9 9 9 9 9 9 9 9 9 9 9 9 9 9 9 9 9 9 9 9 9 9 9 9 9 9 9 9 9 9 9 9 9 9 9 9 9 9 9 9 9 9 9 9 9 9 9 9 9 9 9 9 9 9 9 9 9 9 9 9 9 9 9 9 9 9 9 9 9 9 9 9 9 9 9 9 9 9 9 9 9 9 9 9 9 9 9 9 9 9 9 9 9 9 9 9 9 9 9 9 9 9 9 9 9 9 9 9 9 9 
+        9 9 9 9 9 9 9 9 9 9 9 9 9 f 9 9 f b b b b b b e e e b b f f f f f f f f f 9 9 9 9 9 9 9 9 9 9 9 9 9 9 9 9 9 9 9 9 9 9 9 9 9 9 9 9 9 9 9 9 9 9 9 9 9 9 9 9 9 9 9 9 9 9 9 9 9 9 9 9 9 9 9 9 9 9 9 9 9 9 9 9 9 9 9 9 9 9 9 9 9 9 9 9 9 9 9 9 9 9 9 9 9 9 9 9 9 9 9 9 9 9 9 9 9 9 9 9 9 9 9 9 9 9 9 9 9 9 9 9 9 9 9 9 9 9 9 9 9 9 9 
+        9 9 9 9 9 9 9 9 9 9 9 9 f b f f b f f b b b b e e e b b b b b f f f b b b f f 9 9 9 9 9 9 9 9 9 9 9 9 9 9 9 9 9 9 9 9 9 9 9 9 9 9 9 9 9 9 9 9 9 9 9 9 9 9 9 9 9 9 9 9 9 9 9 9 9 9 9 9 9 9 9 9 9 9 9 9 9 9 9 9 9 9 9 9 9 9 9 9 9 9 9 9 9 9 9 9 9 9 9 9 9 9 9 9 9 9 9 9 9 9 9 9 9 9 9 9 9 9 9 9 9 9 9 9 9 9 9 9 9 9 9 9 9 9 9 9 9 
+        9 9 9 9 9 9 9 9 9 9 9 f b b b b b b f b b b b e e b b b b b f b b b f b b b f 9 9 9 9 9 9 9 9 9 9 9 9 9 9 9 9 9 9 9 9 9 9 9 9 9 9 9 9 9 9 9 9 9 9 9 9 9 9 9 9 9 9 9 9 9 9 9 9 9 9 9 9 9 9 9 9 9 9 9 9 9 9 9 9 9 9 9 9 9 9 9 9 9 9 9 9 9 9 9 9 9 9 9 9 9 9 9 9 9 9 9 9 9 9 9 9 9 9 9 9 9 9 9 9 9 9 9 9 9 9 9 9 9 9 9 9 9 9 9 9 9 
+        9 9 9 9 9 9 9 9 9 9 9 f b b b b b b f b b b b e e b b b f f b b b b f b b b f 9 9 9 9 9 9 9 9 9 9 9 9 9 9 9 9 9 9 9 9 9 9 9 9 9 9 9 9 9 9 9 9 9 9 9 9 9 9 9 9 9 9 9 9 9 9 9 9 9 9 9 9 9 9 9 9 9 9 9 9 9 9 9 9 9 9 9 9 9 9 9 9 9 9 9 9 9 9 9 9 9 9 9 9 9 9 9 9 9 9 9 9 9 9 9 9 9 9 9 9 9 9 9 9 9 9 9 9 9 9 9 9 9 9 9 9 9 9 9 9 9 
+        9 9 9 9 9 9 9 9 9 9 f b b b b b b b f b b e e e b b b f b b b b b b f b f b f f 9 9 9 9 9 9 9 f 9 9 9 9 9 9 9 9 9 9 9 9 9 9 9 9 9 9 9 9 9 9 9 9 9 9 9 9 9 9 9 9 9 9 9 9 9 9 9 9 9 9 9 9 9 9 9 9 9 9 9 9 9 9 9 9 9 9 9 9 9 9 9 9 9 9 9 9 9 9 9 9 9 9 9 9 9 9 9 9 9 9 9 9 9 9 9 9 9 9 9 9 9 9 9 9 9 9 9 9 9 9 9 9 9 9 9 9 9 9 9 9 
         9 9 9 9 9 9 9 9 9 9 f b b b b b b f b b b e e e b b b f b b b b b f b b f b f f 9 9 9 9 9 9 9 f 9 9 9 9 9 9 9 9 9 9 9 9 9 9 9 9 9 9 9 9 9 9 9 9 9 9 9 9 9 9 9 9 9 9 9 9 9 9 9 9 9 9 9 9 9 9 9 9 9 9 9 9 9 9 9 9 9 9 9 9 9 9 9 9 9 9 9 9 9 9 9 9 9 9 9 9 9 9 9 9 9 9 9 9 9 9 9 9 9 9 9 9 9 9 9 9 9 9 9 9 9 9 9 9 9 9 9 9 9 9 9 9 
         9 9 9 9 9 9 9 9 9 9 f b b b b b b f b b b e e e b b b f b b b b b f b f b b f f 9 9 9 9 9 9 9 f 9 9 9 9 9 9 9 9 9 9 9 9 9 9 9 9 9 9 9 9 9 9 9 9 9 9 9 9 9 9 9 9 9 9 9 9 9 9 9 9 9 9 9 9 9 9 9 9 9 9 9 9 9 9 9 9 9 9 9 9 9 9 9 9 9 9 9 9 9 9 9 9 9 9 9 9 9 9 9 9 9 9 9 9 9 9 9 9 9 9 9 9 9 9 9 9 9 9 9 9 9 9 9 9 9 9 9 9 9 9 9 9 
         9 9 9 9 9 9 9 9 9 9 9 f b b b b b f b b b e e e b b f b b b b b b f b f b f f f 9 9 9 9 9 9 9 f 9 9 9 9 9 9 9 9 9 9 9 9 9 9 9 9 9 9 9 9 9 9 9 9 9 9 9 9 9 9 9 9 9 9 9 9 9 9 9 9 9 9 9 9 9 9 9 9 9 9 9 9 9 9 9 9 9 9 9 9 9 9 9 9 9 9 9 9 9 9 9 9 9 9 9 9 9 9 9 9 9 9 9 9 9 9 9 9 9 9 9 9 9 9 9 9 9 9 9 9 9 9 9 9 9 9 9 9 9 9 9 9 
